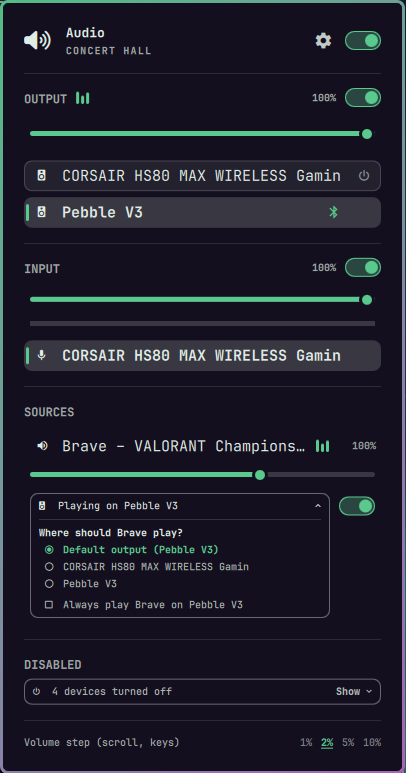
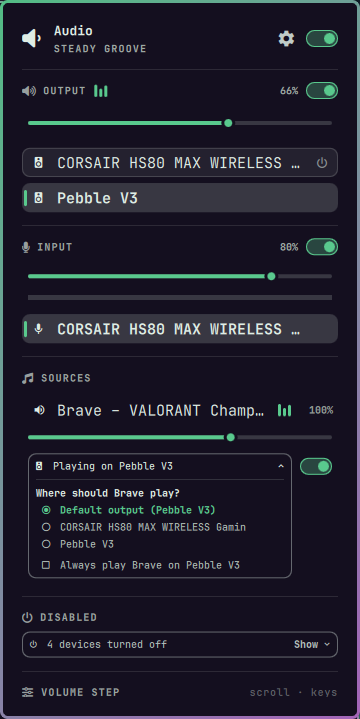
Retake the screenshots and preview for the new section style

diff --git a/README.md b/README.md
@@ -3,7 +3,7 @@
 Omarchy's audio panel, with the controls it was missing. Drop-in replacement. Follows Omarchy themes.
 
 <p>
-  <img src="assets/omaudiopanel.png" alt="The omaudiopanel audio panel: playing bars and a mute switch on OUTPUT and INPUT, a Bluetooth speaker marked as such, Brave in the mixer with its output field and mute switch, the folded Disabled section and the volume step" width="360">
+  <img src="assets/omaudiopanel.png" alt="The omaudiopanel audio panel: playing bars and a mute switch on OUTPUT and INPUT, a Bluetooth speaker marked as such, Brave in the mixer with its output field and mute switch, the folded Disabled section and the volume step choices" width="360">
   <img src="assets/omaudioroute.png" alt="The same panel with Brave's output picker open, the option to always play it on one output, and the power icon for disabling an output" width="360">
 </p>
 
@@ -34,8 +34,8 @@ pickers, the per-app mixer, keyboard navigation — and it adds:
   beside each app that is making sound, in your theme's accent colour — as do
   the volume sliders, level meters and the device in use.
 - **Pick the volume step.** 1%, 2%, 5% or 10% per scroll notch on the bar
-  icon, per slider step and per `h`/`l` in the panel, set from the panel's
-  footer.
+  icon, per slider step and per `h`/`l` in the panel, chosen at the bottom of
+  the panel.
 - **Make it yours.** The ⚙ in the panel header opens its settings: a
   **Compact**, **Normal** or **Comfortable** layout, a **Small**, **Normal**
   or **Large** font size, and switches to hide the
